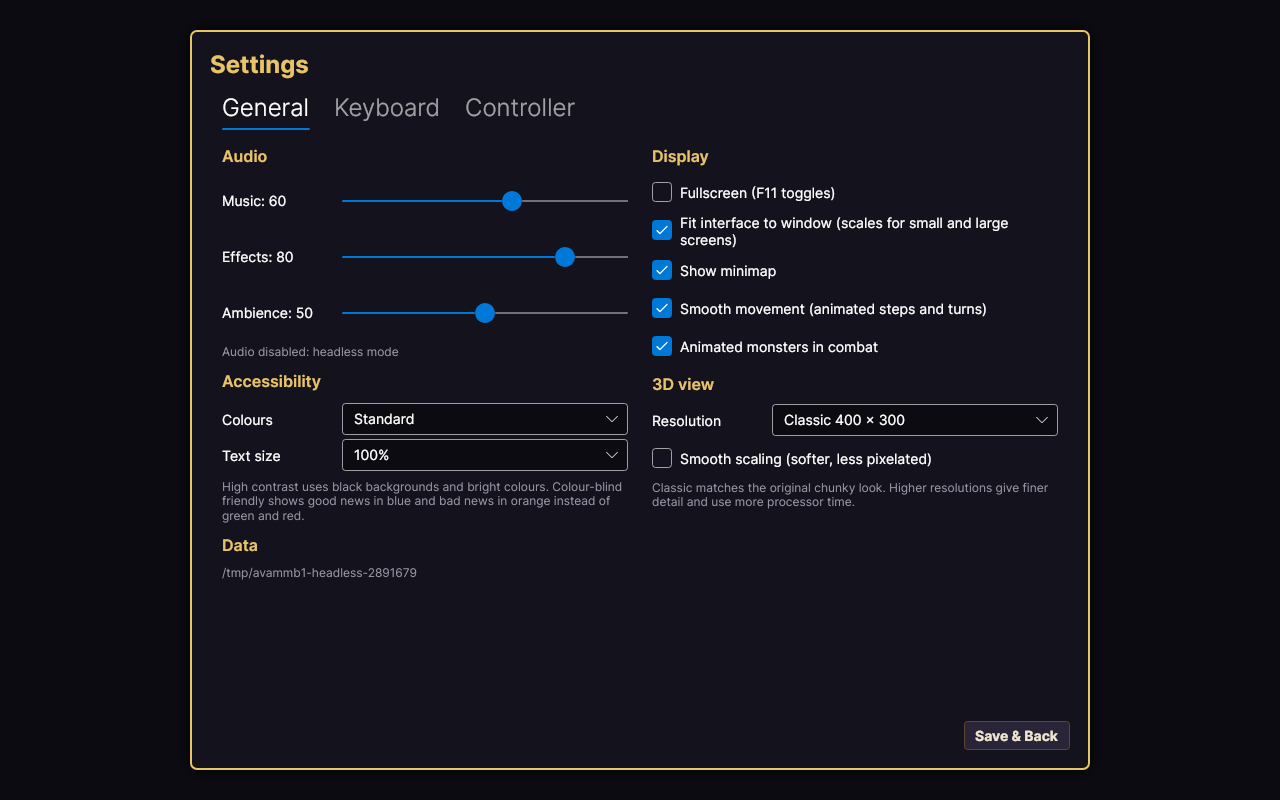
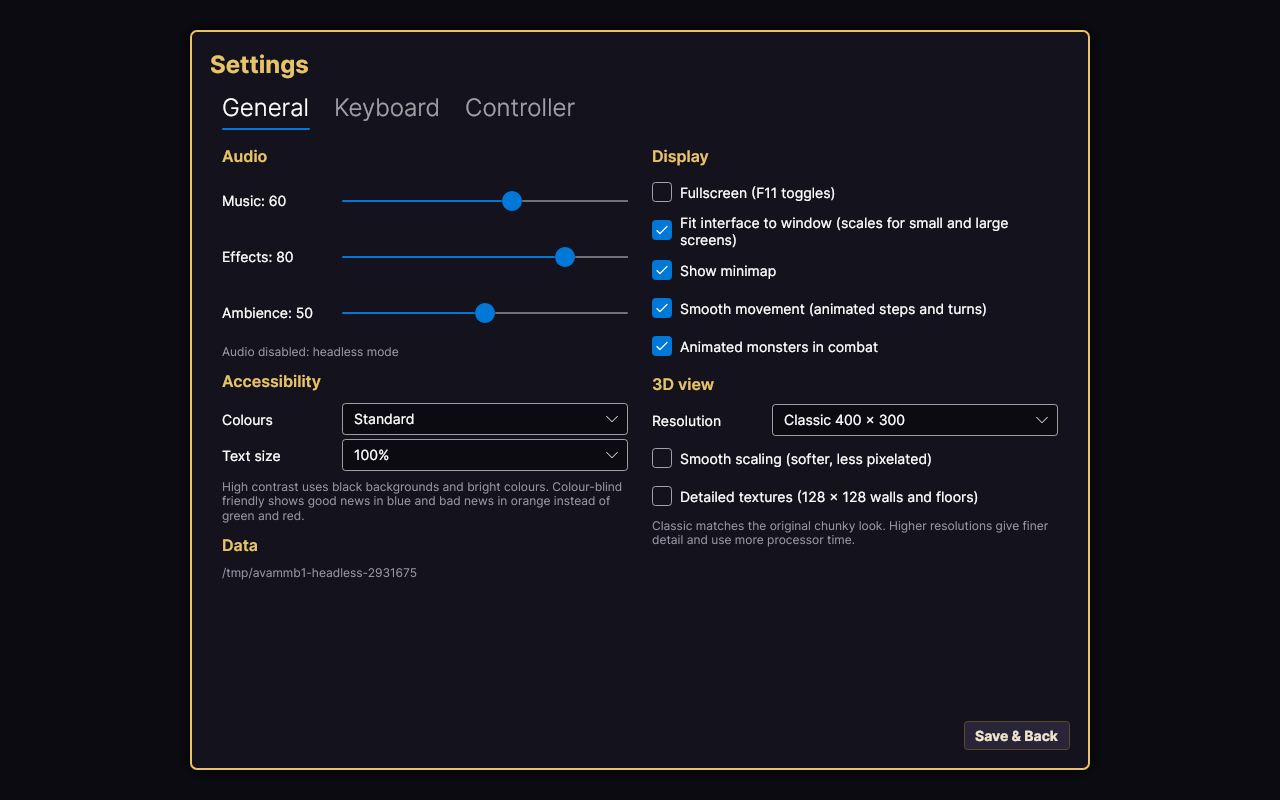
Add optional detailed textures with mipmapping
128x128 walls and floors from Screaming Brain Studios' CC0 Tiny Texture
Pack, hand-matched to each place (distinctive classic textures kept);
Settings > 3D view > Detailed textures. Large textures are mipmapped so
distant surfaces do not shimmer. Licences, credits and docs updated.

Changed region(s): [[0.5, 0.5938, 0.8125, 0.6875], [0.7812, 0.6562, 0.8125, 0.6875]]

diff --git a/src/AVAMMB1.App/Rendering/TextureCache.cs b/src/AVAMMB1.App/Rendering/TextureCache.cs
@@ -22,6 +22,46 @@ public sealed record Texture(int Width, int Height, uint[] Pixels)
         if (y < 0) y += Height;
         return Pixels[y * Width + x];
     }
+
+    private Texture? _half;
+
+    /// <summary>
+    /// The texture to sample when it covers about <paramref name="screenPixels"/> pixels on screen: a
+    /// box-filtered half-size copy (repeatedly) for large textures far away, so detailed textures do not
+    /// shimmer. Textures of 32 pixels or less are never reduced (the classic look stays identical).
+    /// </summary>
+    /// <param name="screenPixels">On-screen size of one texture repeat.</param>
+    public Texture ForSize(double screenPixels)
+    {
+        var t = this;
+        while (t.Width > 32 && t.Height > 32 && t.Width / 2 >= screenPixels)
+        {
+            t = t._half ??= t.Halve();
+        }
+        return t;
+    }
+
+    private Texture Halve()
+    {
+        int w = Width / 2, h = Height / 2;
+        var px = new uint[w * h];
+        for (var y = 0; y < h; y++)
+        {
+            for (var x = 0; x < w; x++)
+            {
+                uint a = 0, r = 0, g = 0, b = 0;
+                foreach (var c in new[] { Pixels[2 * y * Width + 2 * x], Pixels[2 * y * Width + 2 * x + 1], Pixels[(2 * y + 1) * Width + 2 * x], Pixels[(2 * y + 1) * Width + 2 * x + 1] })
+                {
+                    a += c >> 24;
+                    r += (c >> 16) & 0xFF;
+                    g += (c >> 8) & 0xFF;
+                    b += c & 0xFF;
+                }
+                px[y * w + x] = (a / 4) << 24 | (r / 4) << 16 | (g / 4) << 8 | (b / 4);
+            }
+        }
+        return new Texture(w, h, px);
+    }
 }
 
 /// <summary>Loads and caches images from the embedded <c>Assets/Graphics</c> folder.</summary>
@@ -29,6 +69,29 @@ public sealed class TextureCache
 {
     private readonly Dictionary<string, Texture> _textures = new();
     private readonly Dictionary<string, Bitmap?> _bitmaps = new();
+    private readonly Dictionary<string, bool> _hasDetailed = new();
+
+    /// <summary>
+    /// Use the detailed (128 x 128) wall and floor textures from <c>Graphics/TexturesHD</c> where they
+    /// exist; others keep their classic tile.
+    /// </summary>
+    public bool Detailed { get; set; }
+
+    /// <summary>The path actually used for a texture, honouring <see cref="Detailed"/>.</summary>
+    /// <param name="path">Requested path (e.g. <c>Textures/wall_crypt</c>).</param>
+    public string Resolve(string path)
+    {
+        if (!Detailed || !path.StartsWith("Textures/", StringComparison.Ordinal))
+        {
+            return path;
+        }
+        var hd = "TexturesHD/" + path["Textures/".Length..];
+        if (!_hasDetailed.TryGetValue(hd, out var exists))
+        {
+            _hasDetailed[hd] = exists = AssetLoader.Exists(UriFor(hd));
+        }
+        return exists ? hd : path;
+    }
 
     /// <summary>Fallback texture used when an asset is missing (magenta checkerboard).</summary>
     public static Texture Missing { get; } = MakeChecker();
@@ -74,6 +137,7 @@ public sealed class TextureCache
     /// <param name="backing">If non-zero, transparent pixels are composited onto this opaque color.</param>
     public Texture Get(string path, uint backing = 0)
     {
+        path = Resolve(path);
         var key = backing == 0 ? path : $"{path}@{backing:X8}";
         if (_textures.TryGetValue(key, out var tex))
         {

diff --git a/src/AVAMMB1.App/Rendering/SceneRenderer.cs b/src/AVAMMB1.App/Rendering/SceneRenderer.cs
@@ -229,12 +229,13 @@ public sealed class SceneRenderer
             dist = Math.Max(dist, 0.05);
             var wallX = side == 0 ? py + dist * rdy : px + dist * rdx;
             wallX -= Math.Floor(wallX);
+            var lineHeight = (int)(Height / dist);
+            hitTex = hitTex.ForSize(lineHeight);
             var texX = (int)(wallX * hitTex.Width);
             if ((side == 0 && rdx > 0) || (side == 1 && rdy < 0))
             {
                 texX = hitTex.Width - texX - 1;
             }
-            var lineHeight = (int)(Height / dist);
             var start = Height / 2 - lineHeight / 2;
             var light = side == 1 ? 0.78 : 1.0;
             var fogAmount = FogAmount(dist, fogDist, dark);
@@ -283,6 +284,7 @@ public sealed class SceneRenderer
         {
             var p = y - half;
             var rowDist = 0.5 * Height / p;
+            var cellPixels = Height / rowDist; // on-screen size of one floor square at this row
             var fogAmount = FogAmount(rowDist, fogDist, dark);
             var stepX = rowDist * (rdx1 - rdx0) / Width;
             var stepY = rowDist * (rdy1 - rdy0) / Width;
@@ -308,14 +310,16 @@ public sealed class SceneRenderer
                     {
                         floorCache[key] = ft = Tex(key);
                     }
+                    ft = ft.ForSize(cellPixels);
                     var tx = (int)(ft.Width * (fx - cellX));
                     var ty = (int)(ft.Height * (fy - cellY));
                     Pixels[y * Width + x] = Shade(ft.Sample(tx, ty), 0.9, fog, fogAmount);
                     if (ceiling is not null)
                     {
-                        var ctx = (int)(ceiling.Width * (fx - cellX));
-                        var cty = (int)(ceiling.Height * (fy - cellY));
-                        Pixels[cy * Width + x] = Shade(ceiling.Sample(ctx, cty), 0.55, fog, fogAmount);
+                        var ct = ceiling.ForSize(cellPixels);
+                        var ctx = (int)(ct.Width * (fx - cellX));
+                        var cty = (int)(ct.Height * (fy - cellY));
+                        Pixels[cy * Width + x] = Shade(ct.Sample(ctx, cty), 0.55, fog, fogAmount);
                     }
                 }
                 fx += stepX;

diff --git a/src/AVAMMB1.App/ViewModels/MenuViewModels.cs b/src/AVAMMB1.App/ViewModels/MenuViewModels.cs
@@ -210,6 +210,7 @@ public sealed partial class SettingsViewModel : ViewModelBase
         _textScaleIndex = Math.Max(0, Array.IndexOf(TextScales, s.TextScale) is var i and >= 0 ? i : 1);
         _resolutionIndex = Math.Max(0, Array.IndexOf(Resolutions, s.ViewResolution));
         _smoothView = s.SmoothView;
+        _detailedTextures = s.DetailedTextures;
         _pad = new Dictionary<InputAction, AVAMMB1.Core.Input.GamepadButton>(s.GamepadBindings);
         LoadPadRows();
         LoadBindings();
@@ -291,6 +292,10 @@ public sealed partial class SettingsViewModel : ViewModelBase
     /// <summary>Smooth scaling of the 3D view.</summary>
     [ObservableProperty]
     private bool _smoothView;
+
+    /// <summary>Detailed wall and floor textures.</summary>
+    [ObservableProperty]
+    private bool _detailedTextures;
 
     /// <summary>Controller buttons for exploring.</summary>
     public ObservableCollection<PadRow> PadRows { get; } = new();
@@ -434,6 +439,8 @@ public sealed partial class SettingsViewModel : ViewModelBase
         s.AnimateMonsters = AnimateMonsters;
         s.ViewResolution = Resolutions[Math.Clamp(ResolutionIndex, 0, Resolutions.Length - 1)];
         s.SmoothView = SmoothView;
+        s.DetailedTextures = DetailedTextures;
+        _main.Services.Textures.Detailed = DetailedTextures;
         s.GamepadBindings = new Dictionary<InputAction, AVAMMB1.Core.Input.GamepadButton>(_pad);
         PreviewTheme();
         _main.Services.SaveSettings();

diff --git a/src/AVAMMB1.App/Services/HeadlessRunner.cs b/src/AVAMMB1.App/Services/HeadlessRunner.cs
@@ -548,6 +548,20 @@ public static class HeadlessRunner
         MainViewModel.ApplyTheme(settings);
         game.Refresh();
 
+        // Detailed textures at 800 x 600, looking down a corridor of the Hollow Crypt.
+        var crypt = s.Content.Map("crypt").AllEvents.First(e => e.Type == MapEventKind.Teleport);
+        (s.State.MapId, s.State.X, s.State.Y, s.State.Facing) = ("crypt", crypt.X, crypt.Y, Direction.North);
+        s.State.LightSteps = 50;
+        vm.Services.Textures.Detailed = true;
+        settings.ViewResolution = 600;
+        game.Refresh();
+        Pump();
+        Capture(dir, "27-detailed-textures");
+        vm.Services.Textures.Detailed = false;
+        settings.ViewResolution = 300;
+        game.Refresh();
+
+
         // Show the real defaults on the settings screen (animations were only disabled for capturing).
         vm.Services.Settings.SmoothMovement = true;
         vm.Services.Settings.AnimateMonsters = true;

diff --git a/tests/AVAMMB1.Tests/ContentTests.cs b/tests/AVAMMB1.Tests/ContentTests.cs
@@ -123,4 +123,19 @@ public class ContentTests
     [InlineData("sun_king", "The Sun King")]
     public void MonsterNames_TakeTheRightArticle(string id, string expected) =>
         Assert.Equal(expected, TestContent.Content.Monster(id).NameWithArticle);
+
+    [Fact]
+    public void DetailedTextures_Are128Square_AndReplaceAClassicTexture()
+    {
+        var hd = Directory.GetFiles(Path.Combine(RepoAssets(), "Graphics", "TexturesHD"), "*.png");
+        Assert.NotEmpty(hd);
+        foreach (var f in hd)
+        {
+            Assert.True(File.Exists(Path.Combine(RepoAssets(), "Graphics", "Textures", Path.GetFileName(f))), Path.GetFileName(f));
+            var head = File.ReadAllBytes(f).AsSpan(16, 8);
+            var w = (head[0] << 24) | (head[1] << 16) | (head[2] << 8) | head[3];
+            var h = (head[4] << 24) | (head[5] << 16) | (head[6] << 8) | head[7];
+            Assert.Equal((128, 128), (w, h));
+        }
+    }
 }

diff --git a/src/AVAMMB1.Core/Persistence/GameSettings.cs b/src/AVAMMB1.Core/Persistence/GameSettings.cs
@@ -58,6 +58,8 @@ public sealed class GameSettings
     public string LastSeenVersion { get; set; } = "";
     /// <summary>Height of the 3D view's internal image: 300 (400x300, classic), 480 (640x480) or 600 (800x600).</summary>
     public int ViewResolution { get; set; } = 300;
+    /// <summary>Detailed (128 x 128) wall and floor textures where available.</summary>
+    public bool DetailedTextures { get; set; }
     /// <summary>Smooth (filtered) scaling of the 3D view instead of sharp pixels.</summary>
     public bool SmoothView { get; set; }
     /// <summary>Colour theme: Standard, HighContrast or ColorblindFriendly.</summary>

diff --git a/src/AVAMMB1.App/ViewModels/MainViewModel.cs b/src/AVAMMB1.App/ViewModels/MainViewModel.cs
@@ -16,6 +16,7 @@ public sealed partial class MainViewModel : ViewModelBase
         Services = services;
         services.Audio.SetVolumes(services.Settings.MusicVolume, services.Settings.SfxVolume, services.Settings.AmbienceVolume);
         ApplyTheme(services.Settings);
+        services.Textures.Detailed = services.Settings.DetailedTextures;
         _currentScreen = new TitleViewModel(this);
         ShowWhatsNewIfUpdated();
     }

diff --git a/ASSETS_LICENSES.md b/ASSETS_LICENSES.md
@@ -33,6 +33,7 @@ The game code is licensed separately under the MIT license (see [LICENSE](LICENS
 | Dripping Water Loop | qubodup | <https://opengameart.org/content/dripping-water-loop> | CC0 1.0 |
 | Loopable Dungeon Ambience | JaggedStone | <https://opengameart.org/content/loopable-dungeon-ambience> | CC0 1.0 |
 | Park Ambiences | Thimras | <https://opengameart.org/content/park-ambiences> | CC0 1.0 |
+| Tiny Texture Pack (128x128) | Screaming Brain Studios | <https://opengameart.org/content/tiny-texture-pack> | CC0 1.0 |
 
 ## Original works (made for this project)
 
@@ -337,3 +338,28 @@ The game code is licensed separately under the MIT license (see [LICENSE](LICENS
 | `Graphics/Textures/wall_vault.png` | Dungeon Crawl 32x32 tiles | `dungeon/wall/crystal_wall_lightblue.png` |
 | `Graphics/Textures/wall_wintermere.png` | Dungeon Crawl 32x32 tiles | `dungeon/wall/stone_brick_1.png` |
 | `Graphics/Textures/water.png` | Dungeon Crawl 32x32 tiles | `dungeon/water/deep_water.png` |
+| `Graphics/TexturesHD/floor_cobble.png` | Tiny Texture Pack | `128x128/Tile/Tile 24 - 128x128.png` |
+| `Graphics/TexturesHD/floor_crypt.png` | Tiny Texture Pack | `128x128/Tile/Tile 10 - 128x128.png` |
+| `Graphics/TexturesHD/floor_earth.png` | Tiny Texture Pack | `128x128/Grass/Grass 19 - 128x128.png` |
+| `Graphics/TexturesHD/floor_grass.png` | Tiny Texture Pack | `128x128/Grass/Grass 1 - 128x128.png` |
+| `Graphics/TexturesHD/floor_limestone.png` | Tiny Texture Pack | `128x128/Tile/Tile 6 - 128x128.png` |
+| `Graphics/TexturesHD/floor_marble.png` | Tiny Texture Pack | `128x128/Tile/Tile 13 - 128x128.png` |
+| `Graphics/TexturesHD/floor_pebble.png` | Tiny Texture Pack | `128x128/Tile/Tile 25 - 128x128.png` |
+| `Graphics/TexturesHD/floor_sandstone.png` | Tiny Texture Pack | `128x128/Tile/Tile 16 - 128x128.png` |
+| `Graphics/TexturesHD/floor_tomb.png` | Tiny Texture Pack | `128x128/Tile/Tile 10 - 128x128.png` |
+| `Graphics/TexturesHD/wall_catacombs.png` | Tiny Texture Pack | `128x128/Bricks/Brick 23 - 128x128.png` |
+| `Graphics/TexturesHD/wall_cellar.png` | Tiny Texture Pack | `128x128/Bricks/Brick 24 - 128x128.png` |
+| `Graphics/TexturesHD/wall_cistern.png` | Tiny Texture Pack | `128x128/Bricks/Brick 4 - 128x128.png` |
+| `Graphics/TexturesHD/wall_crypt.png` | Tiny Texture Pack | `128x128/Bricks/Brick 19 - 128x128.png` |
+| `Graphics/TexturesHD/wall_desert_town.png` | Tiny Texture Pack | `128x128/Bricks/Brick 17 - 128x128.png` |
+| `Graphics/TexturesHD/wall_dungeon.png` | Tiny Texture Pack | `128x128/Bricks/Brick 13 - 128x128.png` |
+| `Graphics/TexturesHD/wall_marble.png` | Tiny Texture Pack | `128x128/Tile/Tile 15 - 128x128.png` |
+| `Graphics/TexturesHD/wall_sandstone.png` | Tiny Texture Pack | `128x128/Bricks/Brick 18 - 128x128.png` |
+| `Graphics/TexturesHD/wall_temple.png` | Tiny Texture Pack | `128x128/Bricks/Brick 1 - 128x128.png` |
+| `Graphics/TexturesHD/wall_tomb2.png` | Tiny Texture Pack | `128x128/Bricks/Brick 21 - 128x128.png` |
+| `Graphics/TexturesHD/wall_town.png` | Tiny Texture Pack | `128x128/Bricks/Brick 5 - 128x128.png` |
+| `Graphics/TexturesHD/wall_town2.png` | Tiny Texture Pack | `128x128/Bricks/Brick 9 - 128x128.png` |
+| `Graphics/TexturesHD/wall_town3.png` | Tiny Texture Pack | `128x128/Bricks/Brick 25 - 128x128.png` |
+| `Graphics/TexturesHD/wall_town4.png` | Tiny Texture Pack | `128x128/Bricks/Brick 10 - 128x128.png` |
+| `Graphics/TexturesHD/wall_town5.png` | Tiny Texture Pack | `128x128/Bricks/Brick 7 - 128x128.png` |
+| `Graphics/TexturesHD/wall_wintermere.png` | Tiny Texture Pack | `128x128/Bricks/Brick 14 - 128x128.png` |

diff --git a/README.md b/README.md
@@ -96,7 +96,9 @@ Code identifiers, the solution and executables use the name **`AVAMMB1`** (`AVAM
   shows good news in blue and bad news in orange instead of green and red, using the Okabe-Ito
   palette), adjustable text size (90-130%), and rebindable keys and controller buttons.
 - **3D view options**: classic 400 x 300, sharp 640 x 480 or high 800 x 600 internal resolution,
-  with optional smooth scaling.
+  optional smooth scaling, and optional **detailed textures** - 128 x 128 walls and floors (CC0,
+  Screaming Brain Studios) for the towns and most dungeons, with mipmapping so distant walls do not
+  shimmer; places with a distinctive classic look keep their original tiles.
 - **Gamepad support** (Xbox, PlayStation, Switch Pro and other SDL-supported controllers) for
   exploring, combat and every menu; exploring buttons can be rebound in Settings.
 - **Save/load** (10 slots incl. quick-save, JSON) in the OS user-data directory; **settings** for
@@ -127,6 +129,7 @@ All screenshots are real frames rendered by the game itself (Avalonia headless +
 | ![Old Cistern](docs/screenshots/21-old-cistern.png) An eel in the Old Cistern's flooded reservoir | ![Journal](docs/screenshots/22-journal.png) The quest journal |
 | ![High contrast](docs/screenshots/23-high-contrast.png) High-contrast theme, 115% text, 800 x 600 view | ![Help](docs/screenshots/24-help.png) The in-game help |
 | ![Wintermere](docs/screenshots/25-wintermere.png) Wintermere, the northern harbour town | ![Rime Halls](docs/screenshots/26-rime-halls.png) The Rime Halls |
+| ![Detailed textures](docs/screenshots/27-detailed-textures.png) Detailed textures at 800 x 600 (the Hollow Crypt) | |
 
 ## Download and install
 
@@ -257,7 +260,7 @@ route order from level 1 to 15 (fighting, camping, curing with spells and potion
 zone's chests, training, selling loot, buying gear and potions, reloading after a wipe) and asserts
 the pace, wipe rate and gold flow stay within tuned bounds (about 600 battles from a new party to
 level 15). It skips boss hoards and quest rewards, so real players end up with a little more gold. The UI flow title -> party creation -> town -> shop -> dungeon -> combat -> inventory ->
-automap with notes -> journal -> spells -> secret door -> Old Cistern -> Ashen Hills -> Sunscar Coast -> Wintermere -> Rime Halls -> high-contrast theme -> settings is exercised headlessly by `--screenshot`.
+automap with notes -> journal -> spells -> secret door -> Old Cistern -> Ashen Hills -> Sunscar Coast -> Wintermere -> Rime Halls -> high-contrast theme -> detailed textures -> settings is exercised headlessly by `--screenshot`.
 Gamepad support has been play-tested with a physical controller on Linux ARM64 (v1.4.0); on the
 other platforms CI confirms the bundled SDL2 library loads, and the button mapping is unit tested.
 The game is currently under testing.

diff --git a/docs/ARCHITECTURE.md b/docs/ARCHITECTURE.md
@@ -84,6 +84,9 @@ Randomness always flows through `IRandomSource`, so tests can script dice rolls
   `MapView` draws the automap with vector primitives from the explored-cell bitmap in `GameState`.
 * **Textures**: `TextureCache` loads PNGs from Avalonia resources (`avares://AVAMMB1/Assets/...`),
   decodes them to raw pixels for the ray caster, and composites paper-doll portraits.
+* **Textures**: `TextureCache` decodes PNGs to packed pixels; with *Detailed textures* on it prefers
+  `Graphics/TexturesHD/<name>` over `Graphics/Textures/<name>`. `Texture.ForSize` picks a box-filtered
+  half-size copy (mipmap) for textures over 32 px when they are small on screen.
 * **Theming**: `Theming/Theme` holds every interface colour for the three themes and sets them, plus
   `Font<size>` text sizes scaled by the player's choice, as application resources. Views use
   `DynamicResource`, so a change applies immediately; custom-drawn controls (`MapView`) and log

diff --git a/CHANGELOG.md b/CHANGELOG.md
@@ -21,6 +21,10 @@ All notable changes to this project are documented here. The format follows
   gear. All new quests appear in the journal.
 - Academies (Wintermere and Port Ashkar): pay for permanent statistic points, 1000 x (points
   already bought + 1) gold each, up to 10 per character - a sink for late-game gold.
+- Detailed textures (Settings > 3D view): 128 x 128 walls and floors from Screaming Brain Studios'
+  CC0 Tiny Texture Pack for the towns and most dungeons, hand-matched to each place; distinctive
+  classic textures (the Inner Vault, the mines, the Sunless Deep, ice, rock, sand, water, doors) stay
+  as they are. Textures larger than 32 pixels are mipmapped so distant walls and floors do not shimmer.
 - Elite monsters: 1 random encounter in 20 is led by an elite (gold name) with double hit points,
   +2 armor class and +50% damage, worth triple experience and gold and possibly extra loot.
 

diff --git a/CREDITS.md b/CREDITS.md
@@ -42,6 +42,11 @@ their code, data, maps, text, graphics, music or sounds. All trademarks belong t
 - **80 CC0 RPG SFX** - rubberduck - https://opengameart.org/content/80-cc0-rpg-sfx
 - **RPG Sound Pack** - artisticdude - https://opengameart.org/content/rpg-sound-pack
 
+## Detailed textures (CC0 1.0)
+
+- **Tiny Texture Pack** - Screaming Brain Studios - https://opengameart.org/content/tiny-texture-pack
+  Used for the optional "Detailed textures" walls and floors (128 x 128).
+
 A file-by-file list of every asset, its source and license is in ASSETS_LICENSES.md.
 
 ## Fonts
